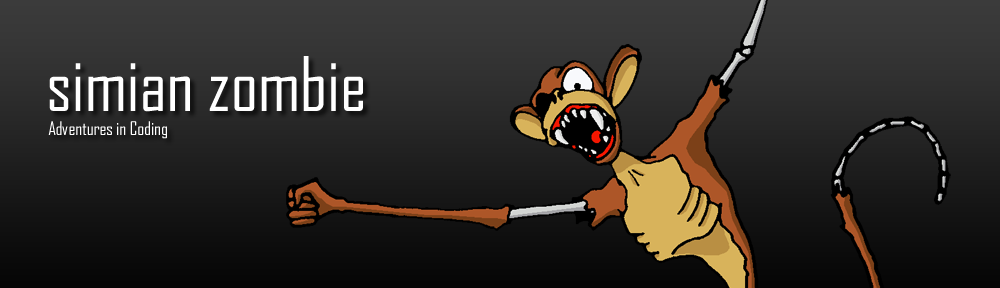
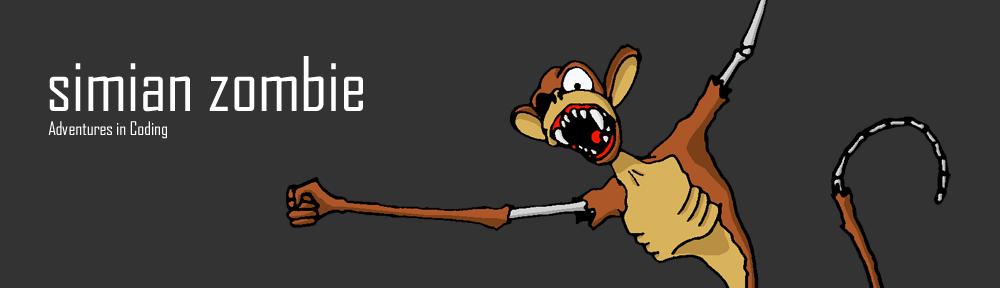
Changed header image background in grump theme. Fixes to grump header image CSS.

diff --git a/themes/grump/templates/post.html b/themes/grump/templates/post.html
@@ -10,7 +10,7 @@
 	<body>
 
 		<header id="header">
-			<a href="/"><img src="/theme/img/header.png" width="100%" alt=""></a>
+			<a href="/"><img src="/theme/img/header.png" alt=""></a>
 		</header>
 
 		{{with .Post}}

diff --git a/themes/grump/css/styles.css b/themes/grump/css/styles.css
@@ -138,8 +138,15 @@ h1 {
 }
 
 #header {
-	margin: 0px;
-	padding: 0px;
+	background-color: #333;
+}
+
+#header img {
+	float: left;
+}
+
+#posts {
+	background-color: white;
 }
 
 #posts article {
